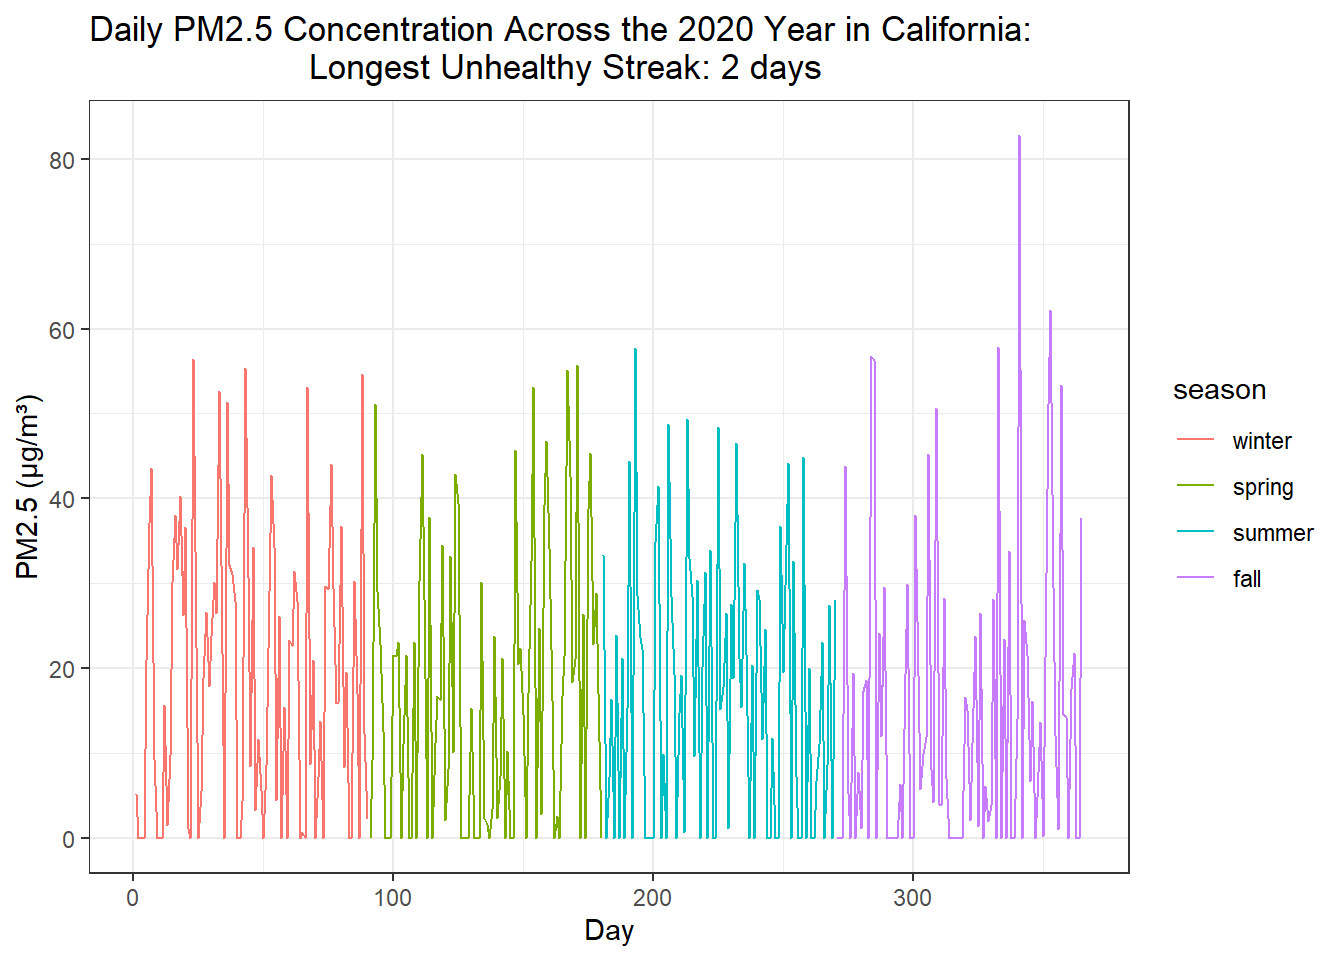
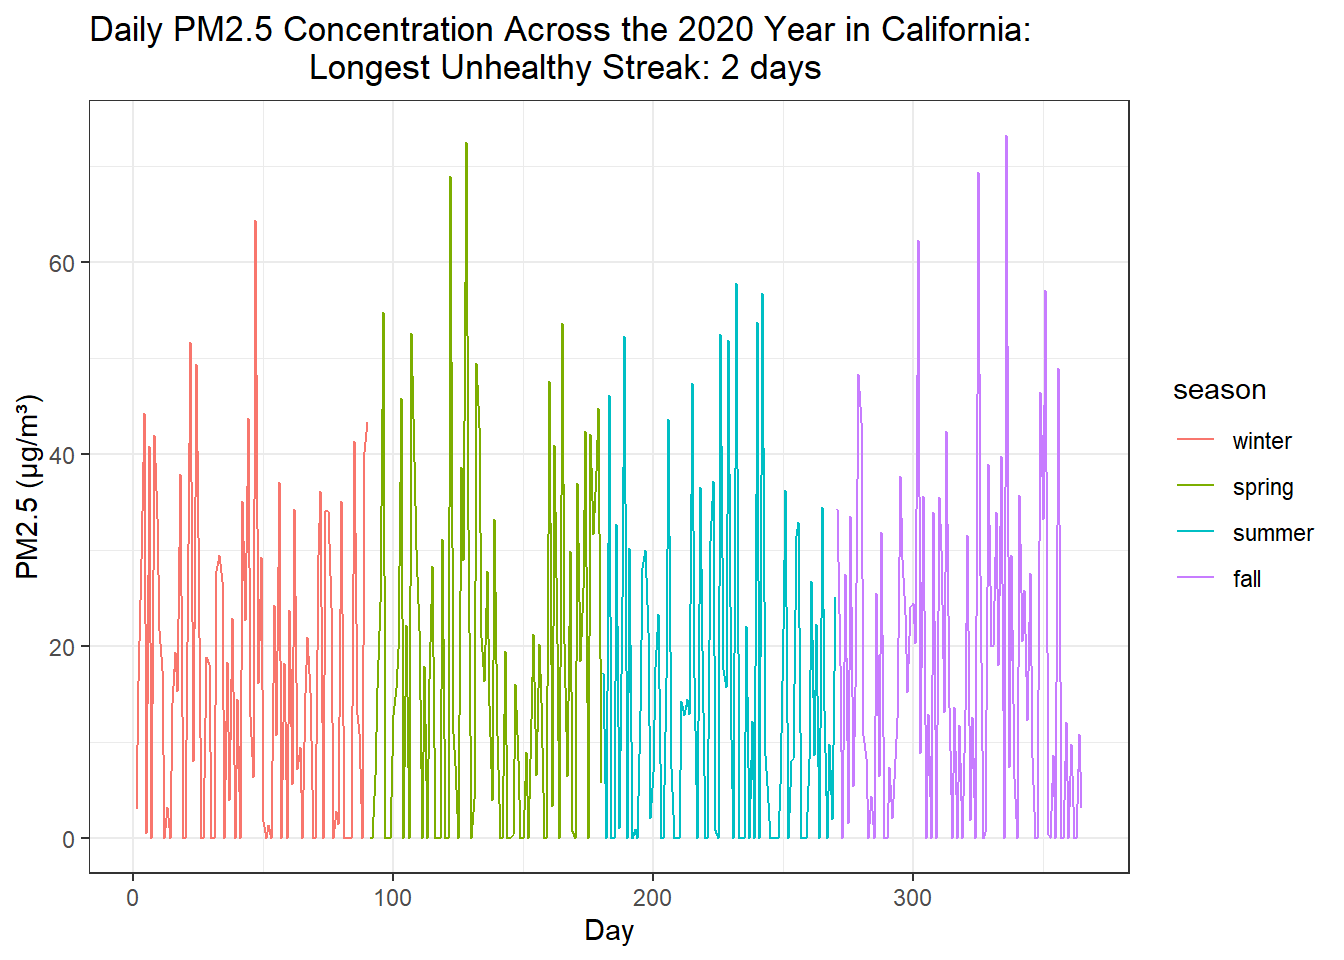
assn 3

diff --git a/Assignment3/scripts/Assn_3_Looping.html b/Assignment3/scripts/Assn_3_Looping.html
@@ -151,7 +151,7 @@ pre > code.sourceCode > span > a:first-child::before { text-decoration: underlin
 <span id="cb4-13"><a href="#cb4-13" aria-hidden="true" tabindex="-1"></a><span class="fu">summary</span>(air_quality_df<span class="sc">$</span>PM2<span class="fl">.5</span>)</span></code></pre></div><button title="Copy to Clipboard" class="code-copy-button"><i class="bi"></i></button></div>
 <div class="cell-output cell-output-stdout">
 <pre><code>   Min. 1st Qu.  Median    Mean 3rd Qu.    Max. 
-   0.00    0.00   14.03   16.52   28.19   82.79 </code></pre>
+   0.00    0.00   12.71   16.51   29.09   73.22 </code></pre>
 </div>
 </div>
 <p>For the particulate matter 2.5 (pm25) daily concentrations, we chose to proceed with the average of the Daily Mean PM2.5 Concentration’s from California cities in the year 2020, which can be accessed here: https://www.epa.gov/outdoor-air-quality-data/download-daily-data. From this data (located in column E in the .csv file), we got a daily mean of 12.75 with a standard deviation of 22.38.</p>
@@ -239,19 +239,19 @@ pre > code.sourceCode > span > a:first-child::before { text-decoration: underlin
 <span id="cb8-27"><a href="#cb8-27" aria-hidden="true" tabindex="-1"></a><span class="co"># print the results</span></span>
 <span id="cb8-28"><a href="#cb8-28" aria-hidden="true" tabindex="-1"></a><span class="fu">print</span>(winter_unhealthy)</span></code></pre></div><button title="Copy to Clipboard" class="code-copy-button"><i class="bi"></i></button></div>
 <div class="cell-output cell-output-stdout">
-<pre><code>[1] 14</code></pre>
+<pre><code>[1] 13</code></pre>
 </div>
 <div class="code-copy-outer-scaffold"><div class="sourceCode cell-code" id="cb10"><pre class="sourceCode r code-with-copy"><code class="sourceCode r"><span id="cb10-1"><a href="#cb10-1" aria-hidden="true" tabindex="-1"></a><span class="fu">print</span>(spring_unhealthy)</span></code></pre></div><button title="Copy to Clipboard" class="code-copy-button"><i class="bi"></i></button></div>
 <div class="cell-output cell-output-stdout">
-<pre><code>[1] 14</code></pre>
+<pre><code>[1] 17</code></pre>
 </div>
 <div class="code-copy-outer-scaffold"><div class="sourceCode cell-code" id="cb12"><pre class="sourceCode r code-with-copy"><code class="sourceCode r"><span id="cb12-1"><a href="#cb12-1" aria-hidden="true" tabindex="-1"></a><span class="fu">print</span>(summer_unhealthy)</span></code></pre></div><button title="Copy to Clipboard" class="code-copy-button"><i class="bi"></i></button></div>
 <div class="cell-output cell-output-stdout">
-<pre><code>[1] 10</code></pre>
+<pre><code>[1] 12</code></pre>
 </div>
 <div class="code-copy-outer-scaffold"><div class="sourceCode cell-code" id="cb14"><pre class="sourceCode r code-with-copy"><code class="sourceCode r"><span id="cb14-1"><a href="#cb14-1" aria-hidden="true" tabindex="-1"></a><span class="fu">print</span>(fall_unhealthy)</span></code></pre></div><button title="Copy to Clipboard" class="code-copy-button"><i class="bi"></i></button></div>
 <div class="cell-output cell-output-stdout">
-<pre><code>[1] 12</code></pre>
+<pre><code>[1] 15</code></pre>
 </div>
 </div>
 </section>
